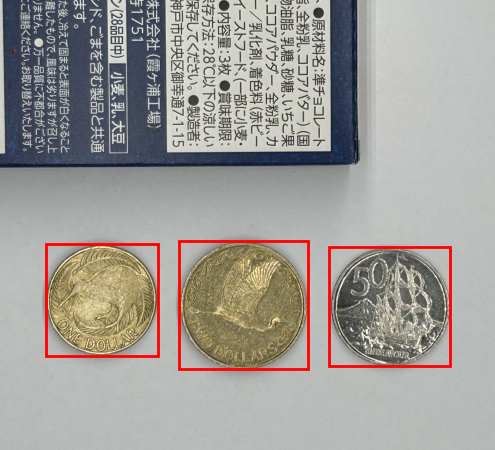
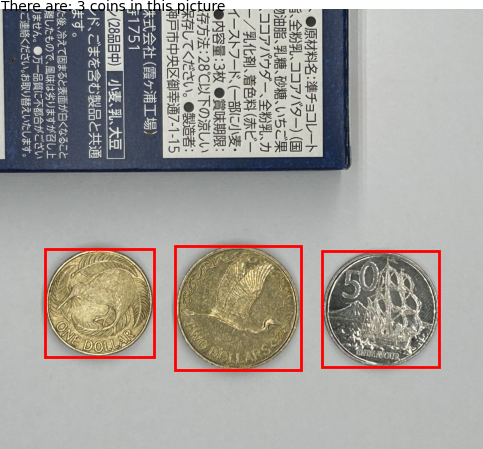
feat: changes thresholding value for more consistent output

Changed region(s): [[0.0, 0.0, 1.0, 0.4053], [0.0932, 0.5301, 0.9317, 0.8419]]

diff --git a/CS373_coin_detection.py b/CS373_coin_detection.py
@@ -191,7 +191,7 @@ def meanFilter(greyscale_pixel_array, image_width, image_height):
 # perform thresholding on the input greyscale image to create a binary image
 # the threshold value should be set to 22
 def thresholding(greyscale_pixel_array, image_width, image_height):
-    threshold_value = 22
+    threshold_value = 26
     binary_pixel_array = createInitializedGreyscalePixelArray(image_width, image_height)
     
     for row in range(image_height):
@@ -298,8 +298,8 @@ def connectedComponentAnalysis(binary_pixel_array, image_width, image_height):
 # This is our code skeleton that performs the coin detection.
 def main(input_path, output_path):
     # This is the default input image, you may change the 'image_name' variable to test other images.
-    image_name = 'easy_case_6'
-    input_filename = f'./Images/easy/{image_name}.png'
+    image_name = 'hard_case_2'
+    input_filename = f'./Images/hard/{image_name}.png'
     if TEST_MODE:
         input_filename = input_path
 
